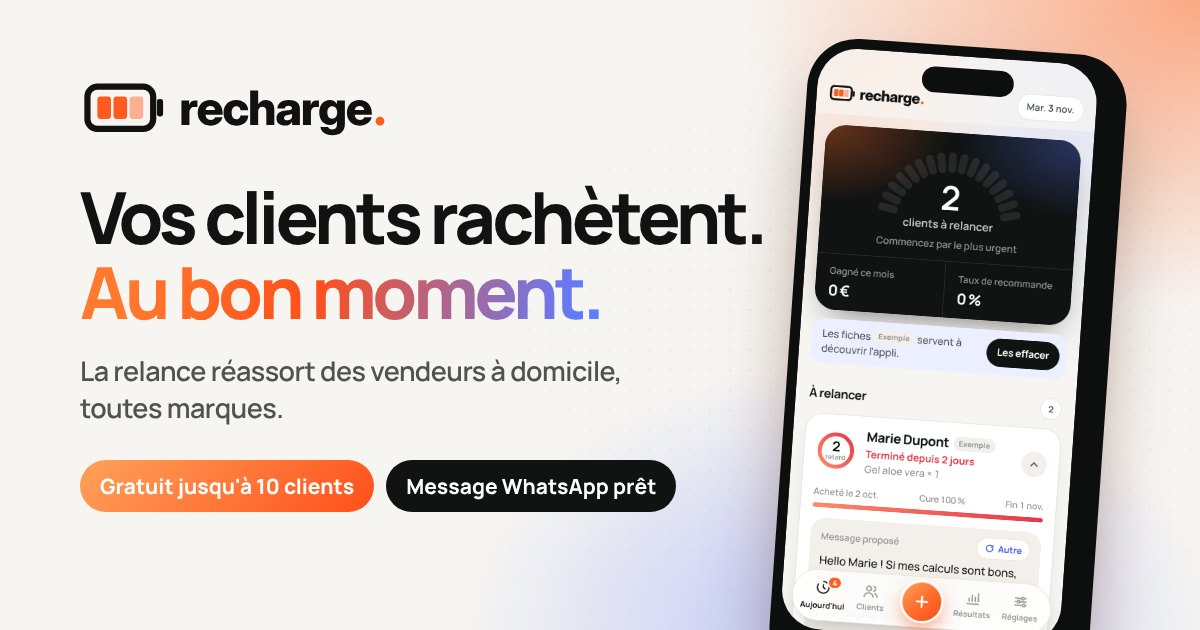
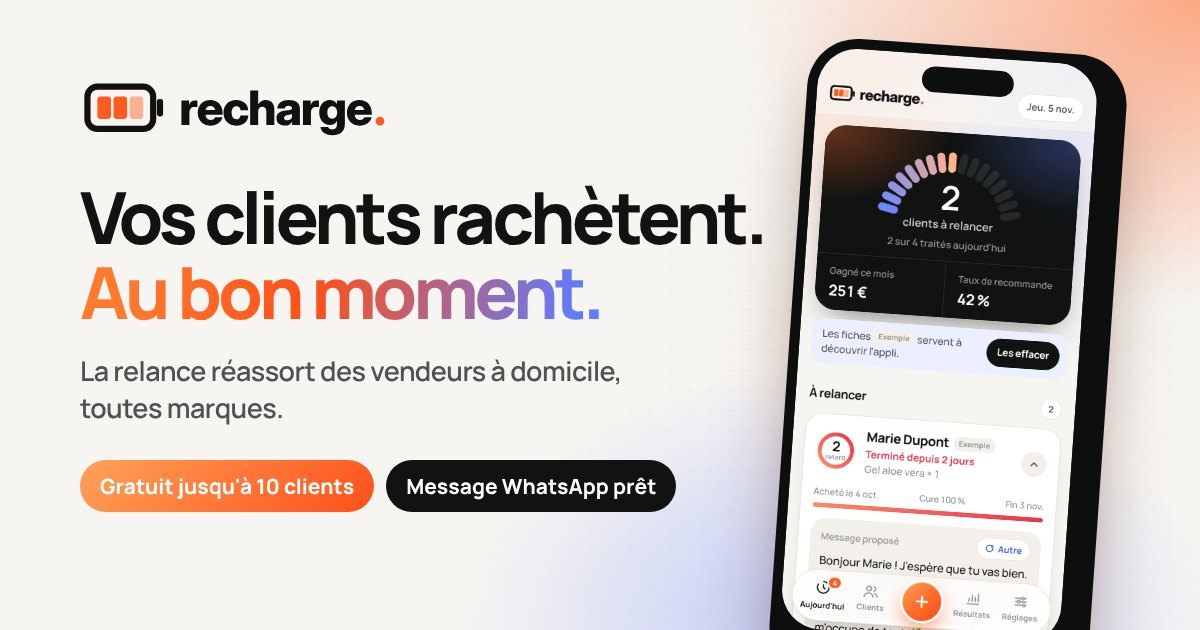
Démo du site avec des chiffres d'exemple réalistes
- en mode démo seulement : un mois d'historique (12 relances, 5 recommandes, 1 prospect, 1 client par bouche-à-oreille)
- accueil : « Gagné ce mois 251 € », taux 42 %, « 2 sur 5 traités aujourd'hui »
- bloc Résultats du site aligné (251 € gagnés), image de partage refaite
- la vraie appli reste vide au départ

Claude-Session: https://claude.ai/code/session_01R9VSqa41532XskJme7NK7z

diff --git a/app/index.html b/app/index.html
@@ -387,7 +387,33 @@ function save() {
   catch (e) { storageOk = false; }
 }
 S = load();
-if (!S) { S = seed(); save(); }
+if (!S) { S = seed(); if (DEMO) addDemoHistory(S); save(); }
+/* Démo du site : un mois déjà bien rempli, pour montrer des chiffres parlants */
+function addDemoHistory(s) {
+  const t = today(), first = t.slice(0, 8) + "01", span = Math.max(0, diff(t, first));
+  const day = k => addDays(first, Math.min(span, Math.round(span * k)));
+  const people = [["Nathalie Roux", "p1", 1], ["Céline Garnier", "p2", 2], ["Paul Mercier", "p3", 1], ["Inès Laurent", "p1", 1], ["Hugo Petit", "p4", 2]];
+  const recos = [];
+  people.forEach(([name, pid, qty], i) => {
+    const c = { id: uid(), name, phone: "06 00 00 01 0" + i, example: true, createdAt: addDays(first, -60) };
+    s.clients.push(c);
+    const p = s.products.find(x => x.id === pid);
+    const old = makeSale(c.id, p, qty, addDays(first, -p.days * qty + 2), true); old.status = "recommande";
+    const d = day((i + 1) / 6);
+    s.sales.push(old, makeSale(c.id, p, qty, d, true));
+    s.events.push({ id: uid(), type: "relance", clientId: c.id, saleId: old.id, product: p.name, date: d, example: true },
+                  { id: uid(), type: "recommande", clientId: c.id, saleId: old.id, product: p.name, date: d, amount: p.price * qty, example: true });
+  });
+  // relances sans réponse pour l'instant (dont 2 aujourd'hui) : taux de recommande réaliste
+  for (let i = 0; i < 7; i++) {
+    const c = s.clients[i % s.clients.length];
+    s.events.push({ id: uid(), type: "relance", clientId: c.id, saleId: "demo" + i, product: "", date: i < 2 ? t : day(i / 8), example: true });
+  }
+  // un prospect devenu client et un nouveau client par bouche-à-oreille
+  const p1 = s.products[0];
+  s.events.push({ id: uid(), type: "pclient", clientId: s.clients[4].id, prospectId: "demo-p", product: p1.name, amount: p1.price, date: day(.5), example: true },
+                { id: uid(), type: "bnew", clientId: s.clients[5].id, product: s.products[2].name, amount: s.products[2].price, date: day(.7), example: true });
+}
 if (!Array.isArray(S.prospects)) S.prospects = [];
 
 const client = id => S.clients.find(c => c.id === id);

diff --git a/index.html b/index.html
@@ -631,7 +631,7 @@ footer .wrap{display:flex;justify-content:space-between;align-items:center;gap:2
     <div class="stats">
       <div><b class="count" data-to="12">0</b><small>relances</small></div>
       <div><b class="count" data-to="5">0</b><small>recommandes</small></div>
-      <div><b><span class="count" data-to="175">0</span> €</b><small>récupérés</small></div>
+      <div><b><span class="count" data-to="251">0</span> €</b><small>gagnés</small></div>
     </div>
     <div class="ex">Exemple d'un mois, pour illustrer</div>
   </div>
